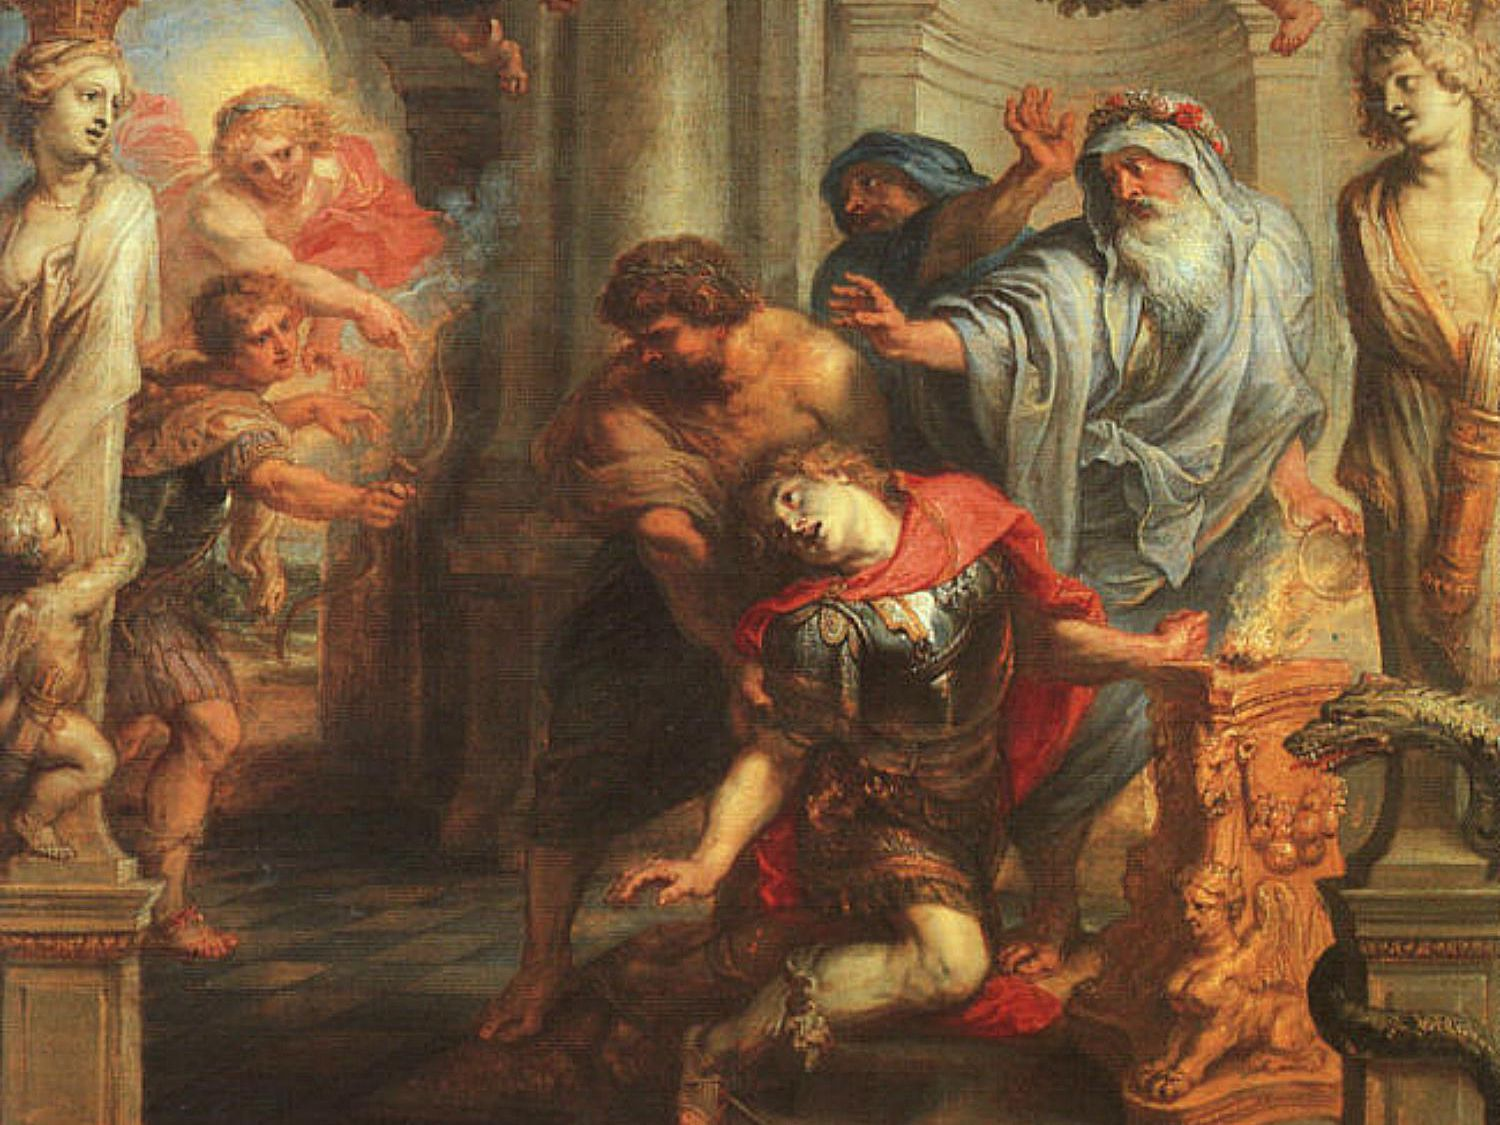
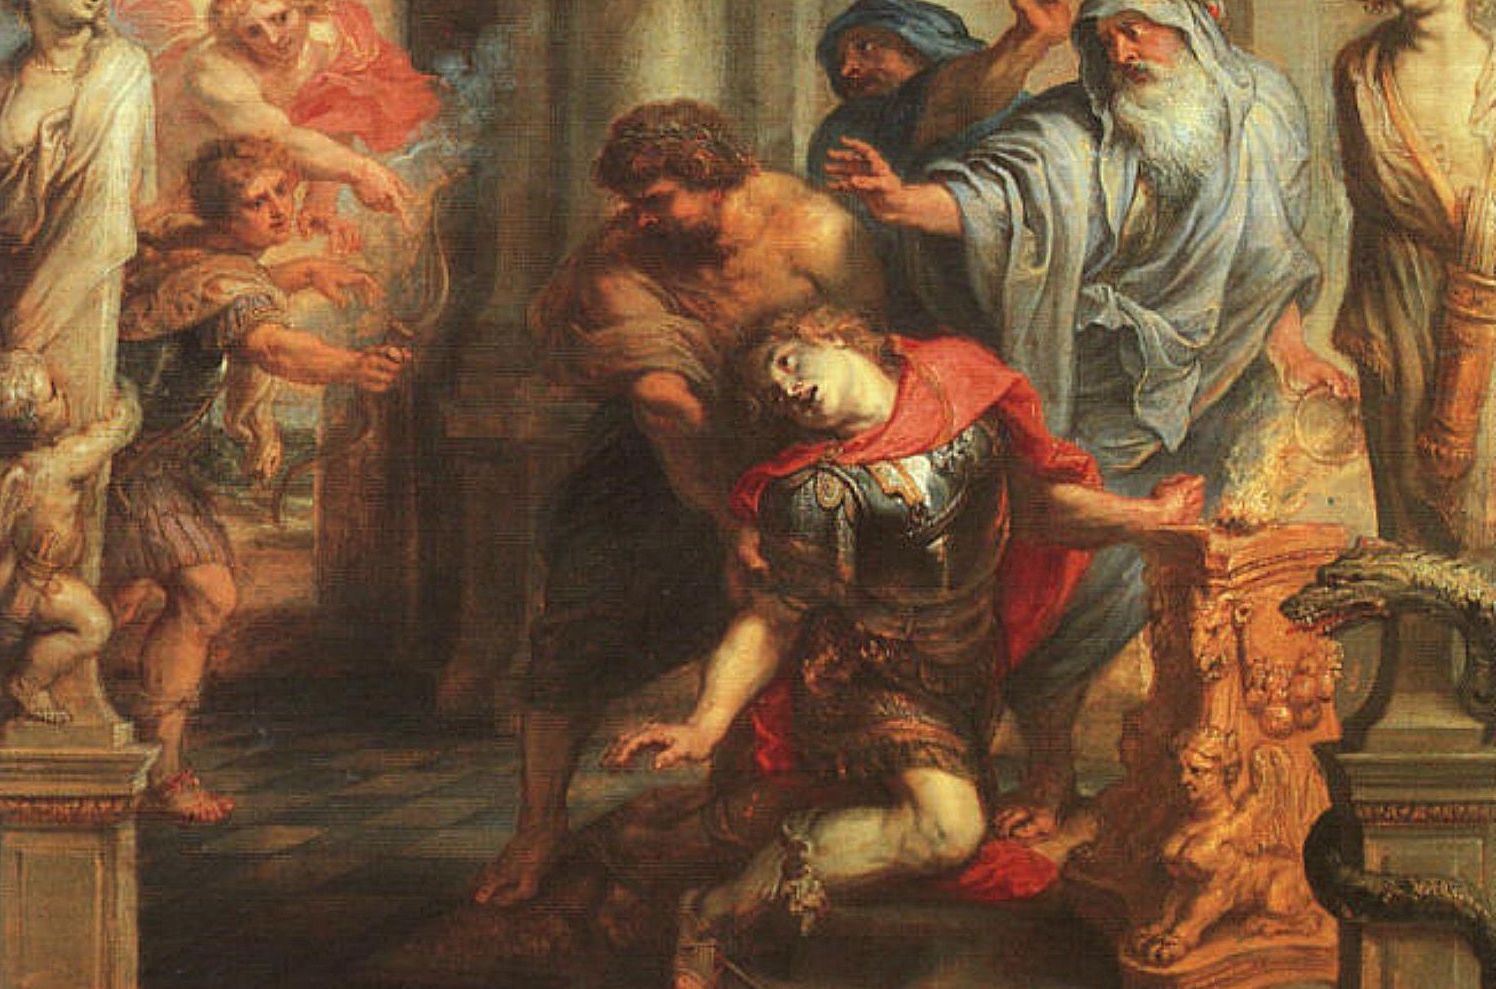
reformatting image sizes

diff --git a/index.html b/index.html
@@ -407,11 +407,9 @@
                     <!--Masonry Grid Item END-->
                     <!--Masonry Grid Item START: Gradian-->
                     <div class="col-md-6 col-lg-4 grid-item">
-
                         <a href="portfolio/gradian.html" class="portfolio-item portfolio-ajax underline_animation text-reset">
                             <div class="portfolio-thumbnail">
-                                <img src="./assets/images/portfolio/gradian/gradian-remote.jpg" class="img-fluid img-grayTransition" alt=""
-                                     width="694" height="460">
+                                <img src="./assets/images/portfolio/gradian/gradian-remote.jpg" class="img-fluid img-grayTransition" alt="">
                             </div>
                             <div class="portfolio-description my-3">
                                 <h3 class="fs-5 underline_text fw-bold d-inline-block">Gradian</h3>
@@ -456,11 +454,11 @@
 
                         <a href="portfolio/research-connect.html" class="portfolio-item portfolio-ajax underline_animation text-reset">
                             <div class="portfolio-thumbnail">
-                                <img src="./assets/images/portfolio/research-connect/research-connect-square.png" class="img-fluid img-grayTransition" alt="">
+                                <img src="./assets/images/portfolio/research-connect/research-connect-splash.png" class="img-fluid img-grayTransition" alt="">
                             </div>
                             <div class="portfolio-description my-3">
                                 <h3 class="fs-5 underline_text fw-bold d-inline-block">Research Connect</h3>
-<!--                                <span class="d-block fw-light small-font-size">Neon</span>-->
+                                <span class="d-block fw-light small-font-size">Helping Students Find Research. Used MERN Stack</span>
                             </div>
                         </a>
                     </div>
@@ -470,7 +468,7 @@
 
                         <a href="portfolio/web-scrapers.html" class="portfolio-item portfolio-ajax underline_animation text-reset">
                             <div class="portfolio-thumbnail">
-                                <img src="assets/images/portfolio/scrapers/web-scraper-animated.jpeg" class="img-fluid img-grayTransition" alt="">
+                                <img src="assets/images/portfolio/scrapers/web-scraper-animated-cropped.jpeg" class="img-fluid img-grayTransition" alt="">
                             </div>
                             <div class="portfolio-description my-3">
                                 <h3 class="fs-5 underline_text fw-bold d-inline-block">Various Web Scrapers</h3>
@@ -485,11 +483,11 @@
 
                         <a href="portfolio/teaching-web-dev.html" class="portfolio-item portfolio-ajax underline_animation text-reset">
                             <div class="portfolio-thumbnail">
-                                <img src="assets/images/portfolio/teaching-web-dev/info1998-teaching.png" class="img-fluid img-grayTransition" alt="">
+                                <img src="assets/images/portfolio/teaching-web-dev/info1998-teaching-cropped.png" class="img-fluid img-grayTransition" alt="">
                             </div>
                             <div class="portfolio-description my-3">
                                 <h3 class="fs-5 underline_text fw-bold d-inline-block">Teaching Full Stack Web Dev</h3>
-<!--                                <span class="d-block fw-light small-font-size">Neon</span>-->
+                                <span class="d-block fw-light small-font-size">Helping Other Cornell Students</span>
                             </div>
                         </a>
 
@@ -500,7 +498,7 @@
 
                         <a href="portfolio/scicademy.html" class="portfolio-item portfolio-ajax underline_animation text-reset">
                             <div class="portfolio-thumbnail">
-                                <img src="assets/images/portfolio/scicademy/scicademy-splash.PNG" class="img-fluid img-grayTransition" alt="">
+                                <img src="assets/images/portfolio/scicademy/scicademy-splash-cropped.PNG" class="img-fluid img-grayTransition" alt="">
                             </div>
                             <div class="portfolio-description my-3">
                                 <h3 class="fs-5 underline_text fw-bold d-inline-block">Scicademy</h3>
@@ -514,11 +512,11 @@
 
                         <a href="portfolio/sadx.html" class="portfolio-item portfolio-ajax underline_animation text-reset">
                             <div class="portfolio-thumbnail">
-                                <img src="assets/images/portfolio/sadx/sadx-computer.jpg" class="img-fluid img-grayTransition" alt="">
+                                <img src="assets/images/portfolio/sadx/sadx-computer.jpeg" class="img-fluid img-grayTransition" alt="">
                             </div>
                             <div class="portfolio-description my-3">
                                 <h3 class="fs-5 underline_text fw-bold d-inline-block">Sad.X</h3>
-                                <span class="d-block fw-light small-font-size">Monetize With Processing Power</span>
+                                <span class="d-block fw-light small-font-size">Monetize Games With Processing Power</span>
                             </div>
                         </a>
                     </div>

diff --git a/portfolio/paris.html b/portfolio/paris.html
@@ -3,28 +3,23 @@
         <div class="col-md-7">
             <div class="owl-carousel portfolio_owl_slider">
                 <div>
-                    <img src="../assets/images/portfolio/paris/paris.jpg"
+                    <img src="../assets/images/portfolio/paris/paris-original.jpg"
                          alt="1st Image">
                 </div>
-                <!--                <div>-->
-                <!--                    <img src="../assets/images/portfolio/gradian/gradian-remote2.jpg" alt="Gradian 2nd Image">-->
-                <!--                </div>-->
-                <!--                <div>-->
-                <!--                    <img src="https://placehold.it/800x533" alt="Portfolio Image 11">-->
-                <!--                </div>-->
             </div>
         </div>
         <div class="col-md-5">
             <h2 class="fs-3 mb-5">Paris</h2>
             <div class="portfolio-content mb-5">
-                <p class="text-secondary">Named after the man who defeated shot Achilles' Heel to take him down,
-                    Paris is an app to solve my Achilles Heel: working from home.
+                <p class="text-secondary">Named after the man who shot Achilles' Heel to take him down,
+                    Paris is an app to solve my personal Achilles Heel: working from home.
                     I built Paris so you can set a location that
-                    you want to be at by a certain time, and then be at that location by that time -- else you are
+                    you want to be at by a certain time, and then be at that location by that time — or else you are
                     charged $10. I used this to force myself to get out of the house on weekdays and weekends to go to
                     the library where I'm much more productive. </p>
                 <p class="text-secondary">The app is written in React Native with a NodeJS back end and MongoDB
-                    database. This was the first app I built using React Native! The back end is abstracted so you can specify whether you want to make sure you are or
+                    database. This was the first app I built using React Native! The back end is abstracted so you
+                    can specify whether you want to make sure you are or
                     are not at a certain location, set which days of the week this should happen, set how large the
                     buffer distance and time is, and more.</p>
             </div>
@@ -36,16 +31,6 @@
                 <li class="list-group-item">
                     <span class="fw-bold">Stack: </span>React-Native, NodeJS, Express, and MongoDB.
                 </li>
-<!--                <li class="list-group-item">-->
-<!--                    <span class="fw-bold">Other Resources: </span><a href="https://devpost.com/software/gradian-1qp0ac"-->
-<!--                                                                     target="_blank">Devpost</a>-->
-<!--                </li>-->
-                <!--                <li class="list-group-item">-->
-                <!--                    <span class="fw-bold">Softwares</span> Photoshop, Illustrator-->
-                <!--                </li>-->
-                <!--                <li class="list-group-item">-->
-                <!--                    <span class="fw-bold">Date</span> 15,05,2021-->
-                <!--                </li>-->
             </ul>
         </div>
     </div>

diff --git a/portfolio/gradian.html b/portfolio/gradian.html
@@ -31,17 +31,20 @@
             <ul class="list-group list-group-flush">
                 <li class="list-group-item">
                     <span class="fw-bold">Source Code: </span><a href="https://github.com/JeaneC/PennApps-XVII"
-                                                                target="_blank">GitHub</a>
+                                                                 target="_blank">GitHub</a>
                 </li>
                 <li class="list-group-item">
                     <span class="fw-bold">Stack: </span>React-Native, NodeJS, Firebase, and Python for helper scripts
                 </li>
                 <li class="list-group-item">
-                    <span class="fw-bold">Other Resources: </span><a href="https://devpost.com/software/gradian-1qp0ac" target="_blank">Devpost</a>
+                    <span class="fw-bold">Other Resources: </span><a href="https://devpost.com/software/gradian-1qp0ac"
+                                                                     target="_blank">Devpost</a>
                 </li>
-                <!--                <li class="list-group-item">-->
-                <!--                    <span class="fw-bold">Softwares</span> Photoshop, Illustrator-->
-                <!--                </li>-->
+                <li class="list-group-item">
+                    <span class="fw-bold">Pitch Deck</span><a
+                        href="https://docs.google.com/presentation/d/1aRYQtw0e3IEjufK3rzvCR9Nt3a9IM_oK1e5Lql_ZQqk/edit#slide=id.p"
+                        target="_blank">Google Slides</a>
+                </li>
                 <!--                <li class="list-group-item">-->
                 <!--                    <span class="fw-bold">Date</span> 15,05,2021-->
                 <!--                </li>-->

diff --git a/portfolio/teaching-web-dev.html b/portfolio/teaching-web-dev.html
@@ -3,7 +3,7 @@
         <div class="col-md-7">
             <div class="owl-carousel portfolio_owl_slider">
                 <div>
-                    <img src="../assets/images/portfolio/teaching-web-dev/info1998-teaching.png"
+                    <img src="../assets/images/portfolio/teaching-web-dev/info1998-teaching-original.png"
                          alt="1st Image">
                 </div>
             </div>
@@ -15,8 +15,8 @@
                     this, but it's a rare moment where I have a great image so I thought I'd include it! I was the lead
                     course instructor for a course we taught to Cornell students about full stack web development. We
                     taught about React, NodeJS, and Firebase. I worked alongside the other instructors in creating
-                    slides and assignments as well as holding office hours. (Note that the course website was made the
-                    instructors after me.)
+                    slides and assignments as well as holding office hours. (Note that the course website below was made
+                    by the instructors after me.)
                 </p>
                 <!--                <p class="text-secondary"></p>-->
             </div>

diff --git a/portfolio/research-connect.html b/portfolio/research-connect.html
@@ -3,12 +3,11 @@
         <div class="col-md-7">
             <div class="owl-carousel portfolio_owl_slider">
                 <div>
-                    <img src="../assets/images/portfolio/research-connect/research-connect-square.png"
-                         alt="1st Image">
+                    <img alt ="" src="../assets/images/portfolio/research-connect/research-connect-splash-original.png">
                 </div>
-                <!--                <div>-->
-                <!--                    <img src="../assets/images/portfolio/gradian/gradian-remote2.jpg" alt="Gradian 2nd Image">-->
-                <!--                </div>-->
+<!--                <div>-->
+<!--                    <img alt="" src="../assets/images/portfolio/research-connect/research-connect-square-original.png">-->
+<!--                </div>-->
                 <!--                <div>-->
                 <!--                    <img src="https://placehold.it/800x533" alt="Portfolio Image 11">-->
                 <!--                </div>-->

diff --git a/portfolio/treatment-without-borders.html b/portfolio/treatment-without-borders.html
@@ -3,7 +3,7 @@
         <div class="col-md-7">
             <div class="owl-carousel portfolio_owl_slider">
                 <div>
-                    <img src="../assets/images/portfolio/treatment-without-borders/fb_finals_hackathon_cover.jpg"
+                    <img src="../assets/images/portfolio/treatment-without-borders/fb_finals_hackathon_cover_original.jpg"
                          alt="Portfolio Image 1">
                 </div>
                 <!--                <div>-->

diff --git a/portfolio/web-scrapers.html b/portfolio/web-scrapers.html
@@ -3,7 +3,7 @@
         <div class="col-md-7">
             <div class="owl-carousel portfolio_owl_slider">
                 <div>
-                    <img src="../assets/images/portfolio/scrapers/web-scraper-animated.jpeg"
+                    <img src="../assets/images/portfolio/scrapers/web-scraper-animated-original.jpeg"
                          alt="1st Image">
                 </div>
                 <!--                <div>-->

diff --git a/portfolio/novogen.html b/portfolio/novogen.html
@@ -3,7 +3,7 @@
         <div class="col-md-7">
             <div class="owl-carousel portfolio_owl_slider">
                 <div>
-                    <img src="../assets/images/portfolio/novagen/novagen-splash.png"
+                    <img src="../assets/images/portfolio/novagen/novagen-splash-original.png"
                          alt="1st Image">
                 </div>
                 <!--                <div>-->

diff --git a/portfolio/sadx.html b/portfolio/sadx.html
@@ -3,7 +3,7 @@
         <div class="col-md-7">
             <div class="owl-carousel portfolio_owl_slider">
                 <div>
-                    <img src="../assets/images/portfolio/sadx/sadx-computer.jpg"
+                    <img src="../assets/images/portfolio/sadx/sadx-computer-original.jpeg"
                          alt="1st Image">
                 </div>
                 <!--                <div>-->

diff --git a/portfolio/scicademy.html b/portfolio/scicademy.html
@@ -3,7 +3,7 @@
         <div class="col-md-7">
             <div class="owl-carousel portfolio_owl_slider">
                 <div>
-                    <img src="../assets/images/portfolio/scicademy/scicademy-splash.PNG"
+                    <img src="../assets/images/portfolio/scicademy/scicademy-splash-original.PNG"
                          alt="1st Image">
                 </div>
             </div>
